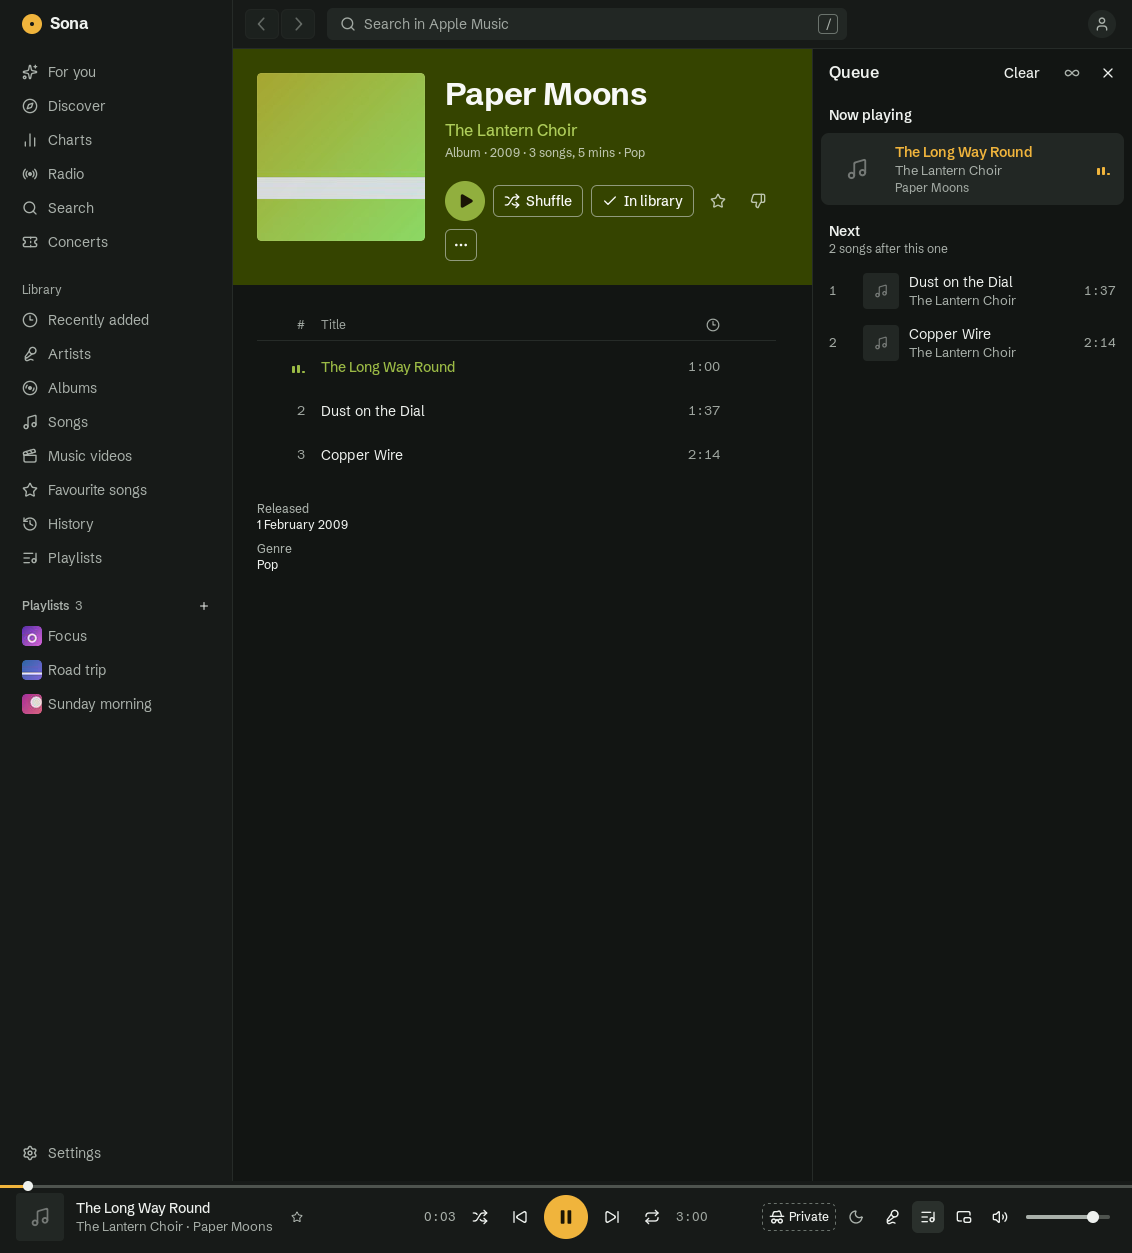
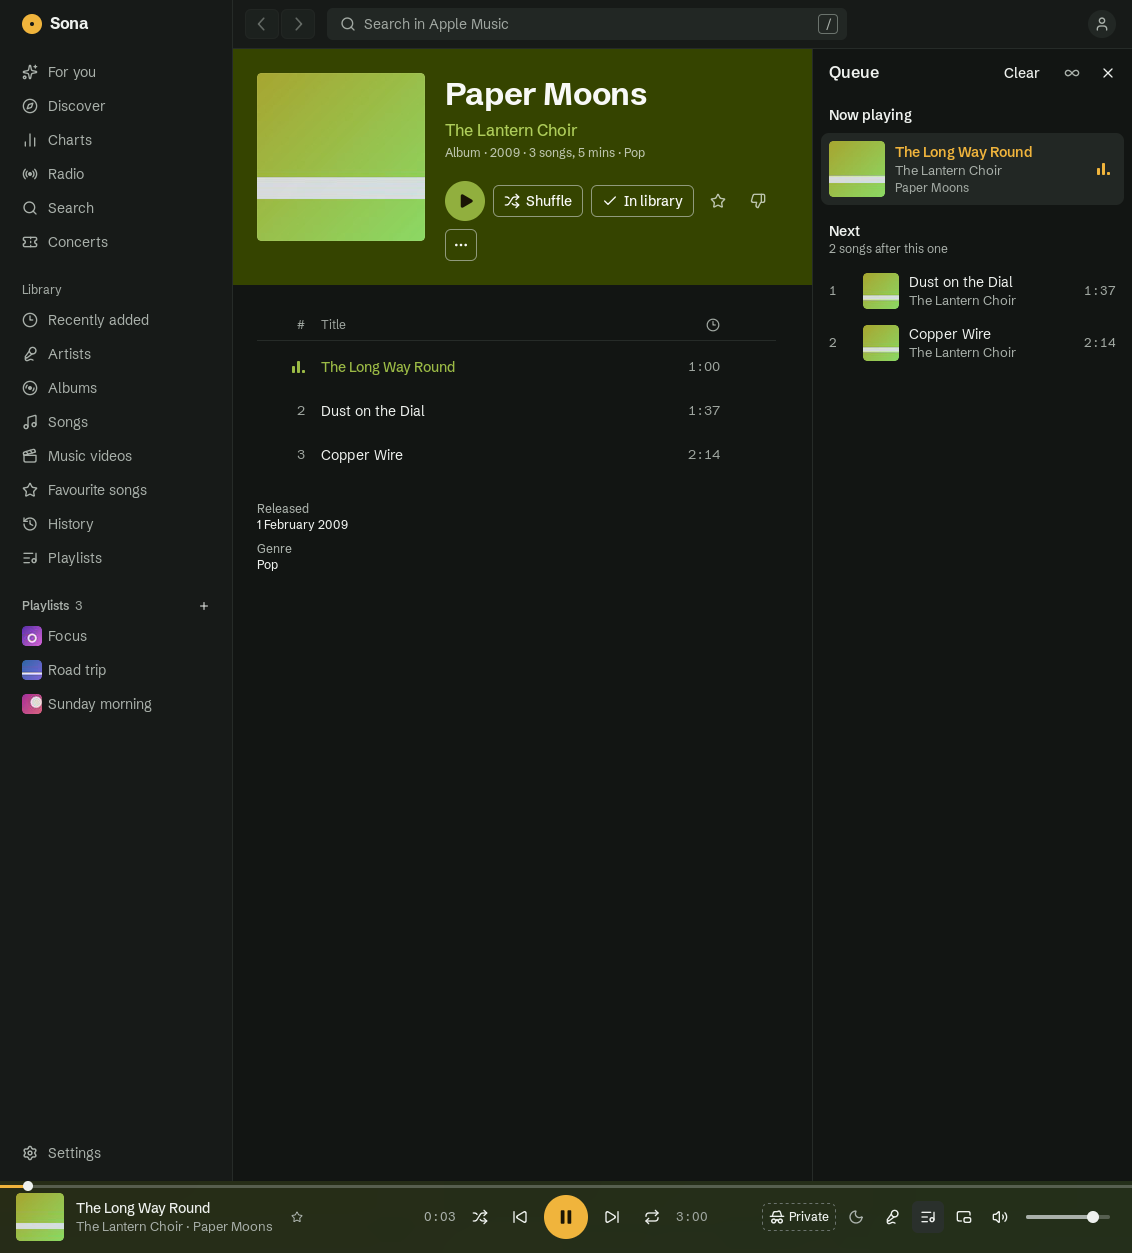
docs(redesign): after captures and probe on the #270 merge
Retook every page's after captures and the Tester renders on b5e6cd59, and recorded the interleaved Albums probe for it against b259a43.

Changed region(s): [[0.7111, 0.0934, 0.8039, 0.1556], [0.742, 0.2179, 0.8039, 0.3113], [0.0, 0.9338, 0.0618, 0.996]]

diff --git a/docs/redesign/probe.md b/docs/redesign/probe.md
@@ -43,7 +43,7 @@ So the comparison that counts alternates the two builds (`bin/sona-probe-base` f
 - **Against the interleaved base:** they are also no worse than the base build's 17.2 ms and 18.2 ms.
 - **CPU work per frame:** the median is 1.30 ms for both builds.
 
-## Final commit (after merging origin/main)
+## After the first merge of origin/main (a7028a13)
 
 The same interleaved comparison was run on a7028a13 against the b259a43 build, on a quieter machine:
 
@@ -59,3 +59,19 @@ The same interleaved comparison was run on a7028a13 against the b259a43 build, o
 - **Against the budget:** the redesign's medians are 16.9 ms p95 and 17.7 ms worst, inside the budget of 17.96 ms and 19.6 ms.
 - **Against the interleaved base:** p95 is the same as the base build's. Worst is 1% higher, which is within the run-to-run spread.
 - **CPU work per frame:** the median p50 is 1.20 ms for both builds.
+
+## Final commit (b5e6cd59, after merging #270)
+
+The same interleaved comparison against the b259a43 build, on a quiet machine:
+
+| Pair | Base p95 | Base worst | Redesign p95 | Redesign worst |
+| --- | --- | --- | --- | --- |
+| 1 | 16.8 ms | 17.4 ms | 16.8 ms | 17.3 ms |
+| 2 | 16.8 ms | 17.3 ms | 16.8 ms | 17.3 ms |
+| 3 | 16.7 ms | 17.4 ms | 16.8 ms | 17.4 ms |
+| 4 | 16.8 ms | 17.7 ms | 16.8 ms | 17.4 ms |
+| 5 | 16.8 ms | 17.5 ms | 16.8 ms | 17.3 ms |
+| **Median** | **16.8 ms** | **17.4 ms** | **16.8 ms** | **17.3 ms** |
+
+- **Against the budget:** the redesign's medians are 16.8 ms p95 and 17.3 ms worst, inside the budget of 17.96 ms and 19.6 ms.
+- **Against the interleaved base:** they equal the base build's. CPU work per frame is 1.10 / 1.30 ms (p50 / p95) on both.

diff --git a/docs/redesign/README.md b/docs/redesign/README.md
@@ -69,5 +69,7 @@ Every page package has its redesign commit on `feat/ui-redesign-pass`. No page w
 - **Integration commits:**
   - 39944597 regenerates the string catalogues and the shell's goldens.
   - 40c63855 gives full-window goldens more time to settle under load.
-  - a7028a13 merges origin/main, whose four refactors moved past the branch's base. Every redesigned page now uses upstream's shared builders (`theme.Text`, `theme.StyleText`, `theme.Fade`, `kit.Fade`, `ctx.Current`). The after captures are from that commit.
+  - a7028a13 merges origin/main, whose refactors had moved past the branch's base (#266–#269): every redesigned page uses upstream's shared builders (`theme.Text`, `theme.StyleText`, `theme.Fade`, `kit.Fade`, `ctx.Current`).
+  - b5e6cd59 merges #270: the pages take the shared page frame, `Env.TrackOpts`, `Env.Routed`, the query-error helpers and `kit.Bar`. The album gatefold, the library's letter-rail pages and the search rail keep scroll frames of their own, because the shared frame's even gutters would undo them.
+  - The after captures and the final probe are from b5e6cd59.
 - **Scroll performance:** the Albums scroll stays within its budget (`probe.md`).
